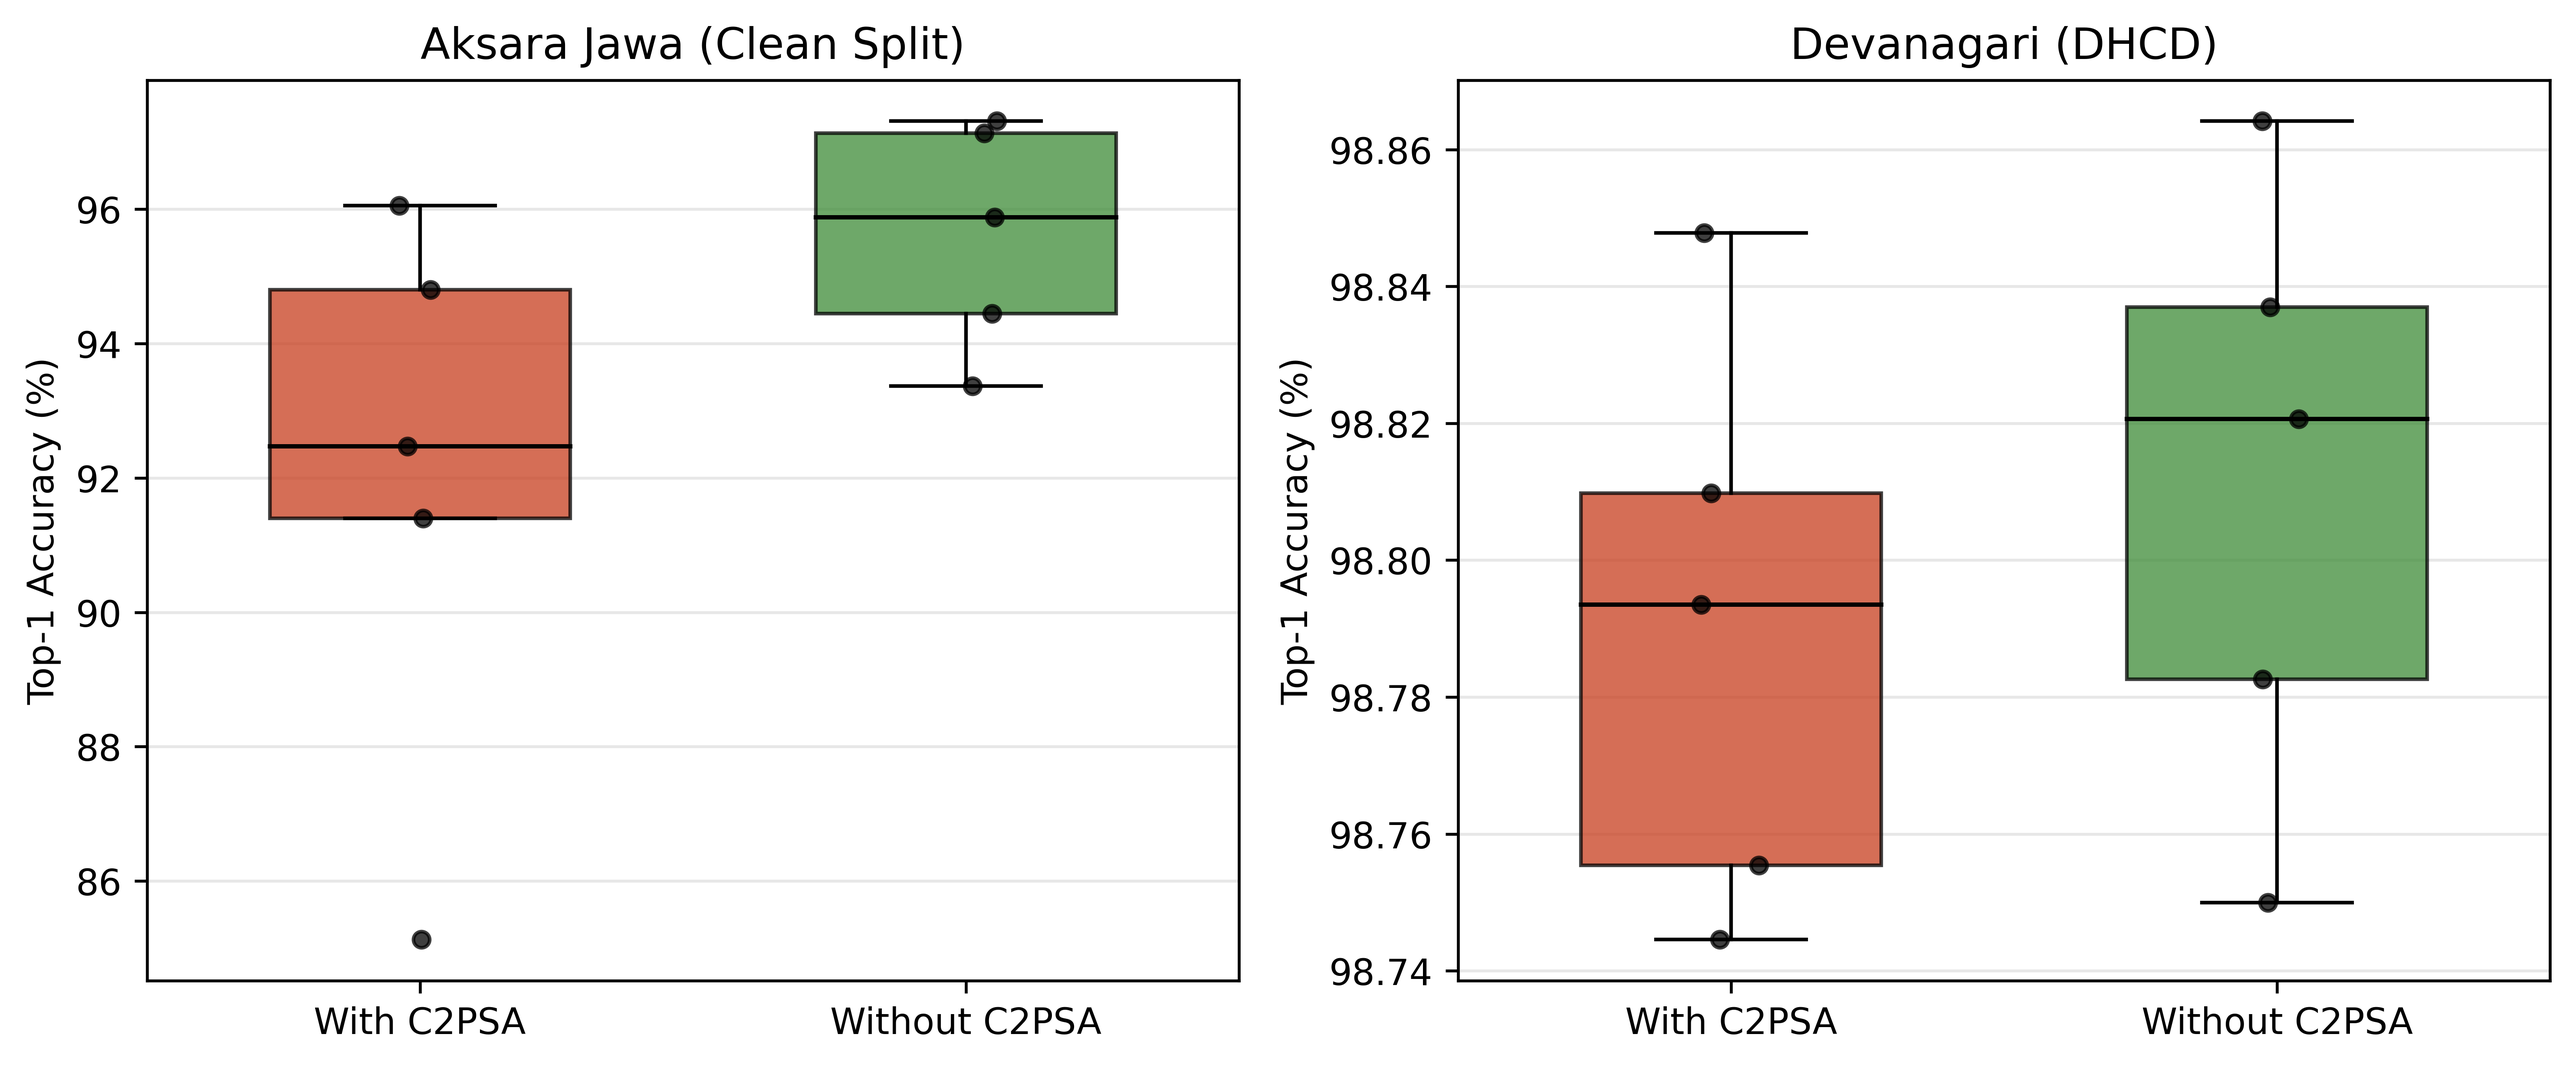
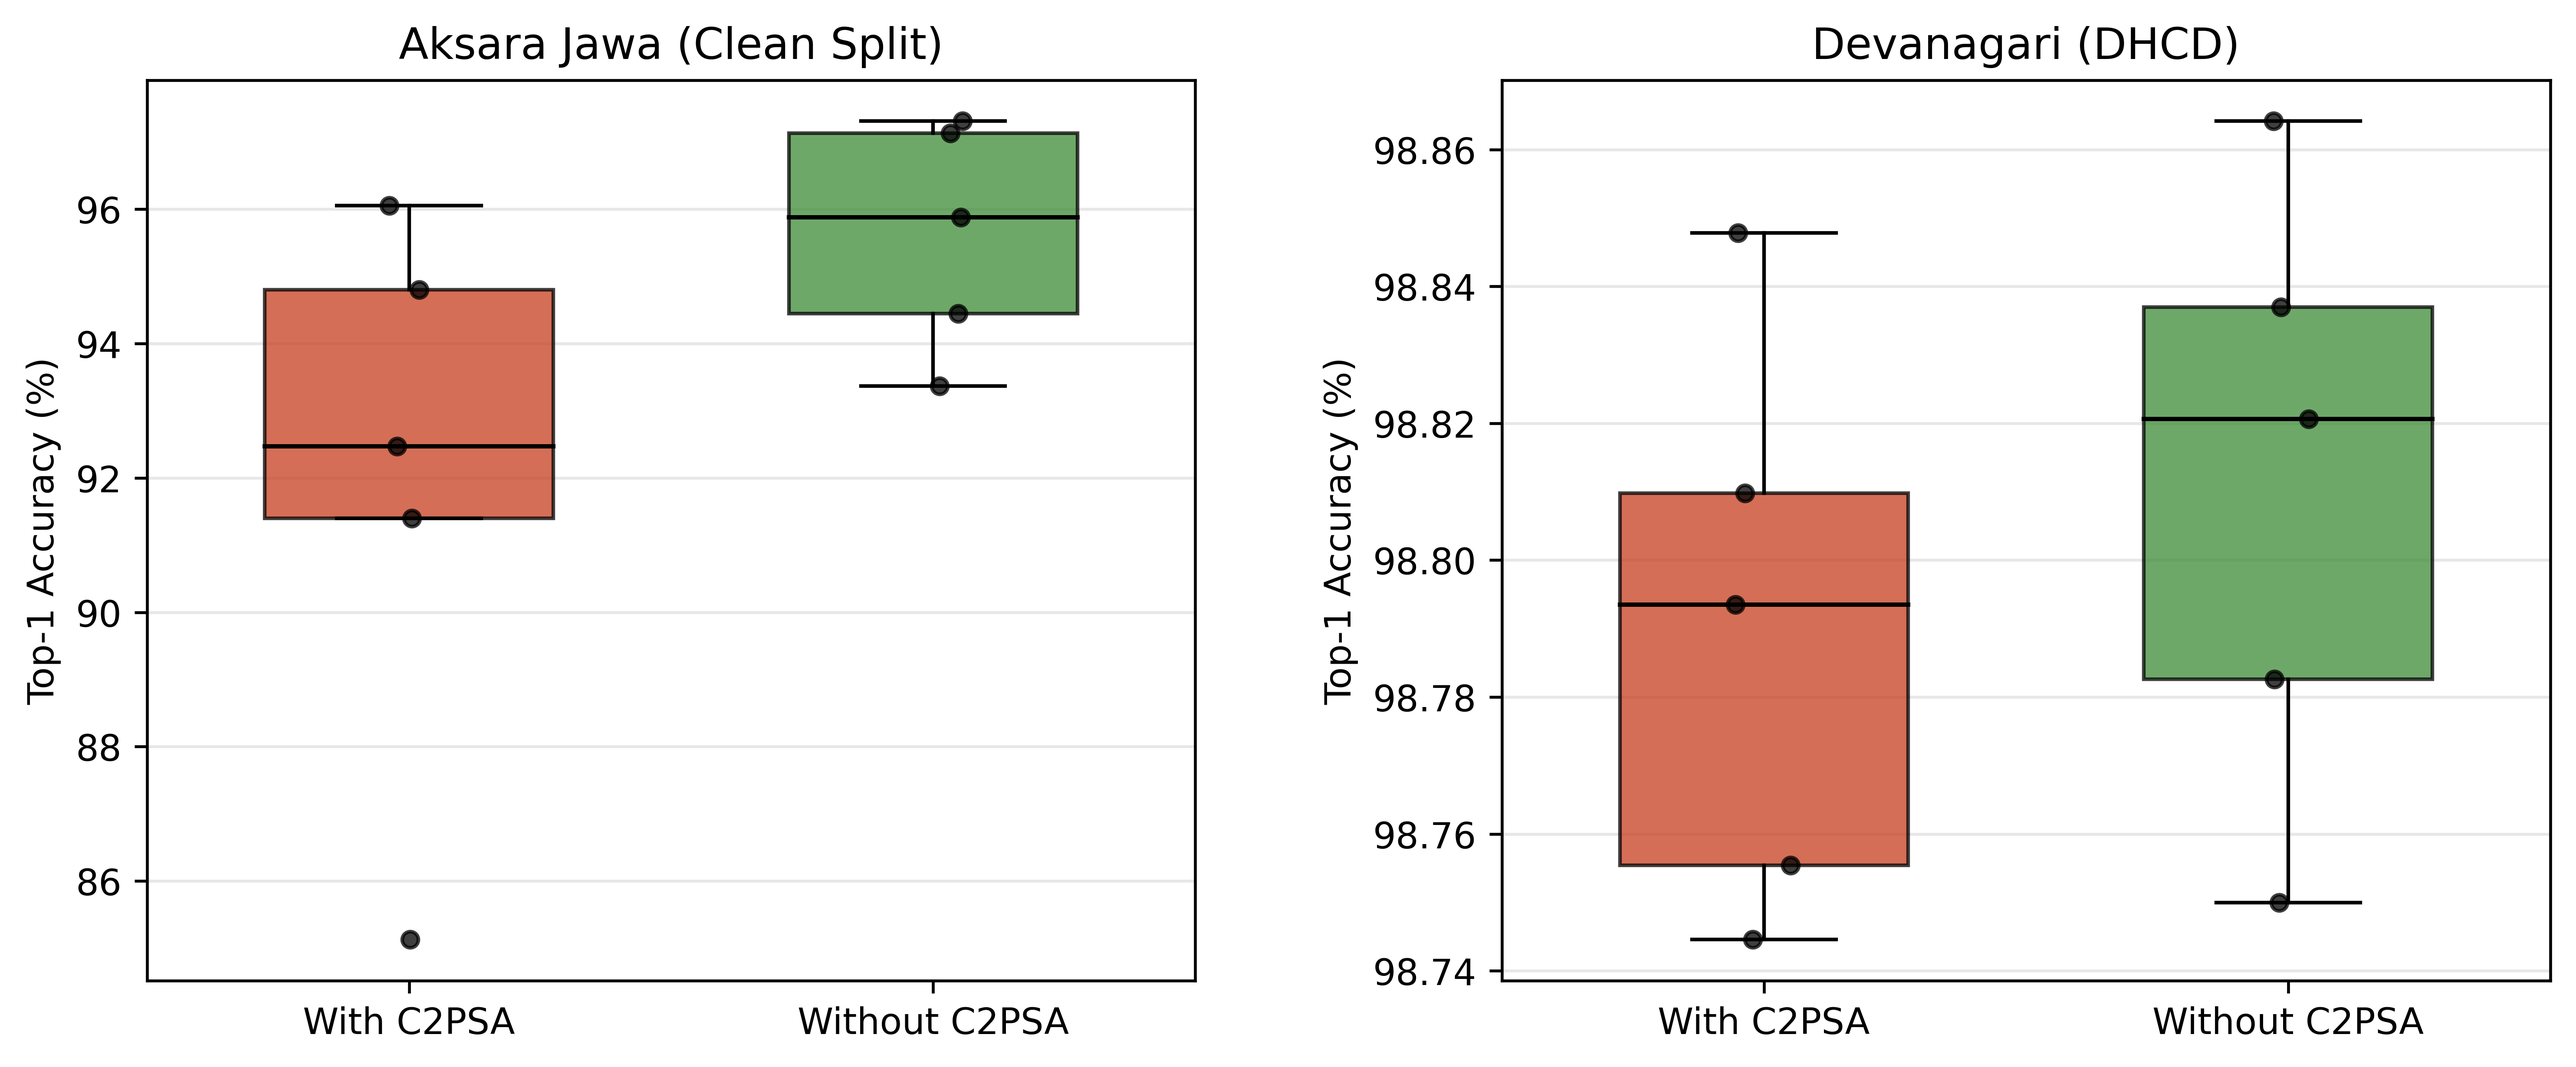
Space out the figure panels

diff --git a/scripts/generate_paper_figures.py b/scripts/generate_paper_figures.py
@@ -83,7 +83,8 @@ for ax, (title, df) in zip(axes, datasets):
         x = np.full_like(y, i + 1, dtype=float) + JITTER.uniform(-0.08, 0.08, len(y))
         ax.scatter(x, y, color='black', s=18, zorder=10, alpha=0.7)
 
-plt.tight_layout()
+# extra horizontal padding so the three panels read as separate charts
+plt.tight_layout(w_pad=3.5)
 plt.savefig(OUT / 'fig1_model_comparison.png', dpi=600, bbox_inches='tight')
 plt.savefig(OUT / 'fig1_model_comparison.pdf', bbox_inches='tight')
 plt.close()
@@ -116,7 +117,8 @@ for ax, (title, df) in zip(axes, ablation_data):
         x = np.full_like(vals, i + 1, dtype=float) + JITTER.uniform(-0.06, 0.06, len(vals))
         ax.scatter(x, vals, color='black', s=20, zorder=10, alpha=0.75)
 
-plt.tight_layout()
+# extra horizontal padding so the panels read as separate charts
+plt.tight_layout(w_pad=3.5)
 plt.savefig(OUT / 'fig2_ablation.png', dpi=600, bbox_inches='tight')
 plt.savefig(OUT / 'fig2_ablation.pdf', bbox_inches='tight')
 plt.close()

diff --git a/scripts/make_fig3.py b/scripts/make_fig3.py
@@ -131,7 +131,8 @@ axes[2].annotate(
     arrowprops=dict(arrowstyle="->", color=COLLAPSE_C, linewidth=0.9),
 )
 
-plt.tight_layout()
+# extra horizontal padding so the panels read as separate charts
+plt.tight_layout(w_pad=3.5)
 for ext in ("pdf", "png"):
     p = os.path.join(OUT, f"fig3_convergence.{ext}")
     fig.savefig(p, dpi=600, bbox_inches="tight")
